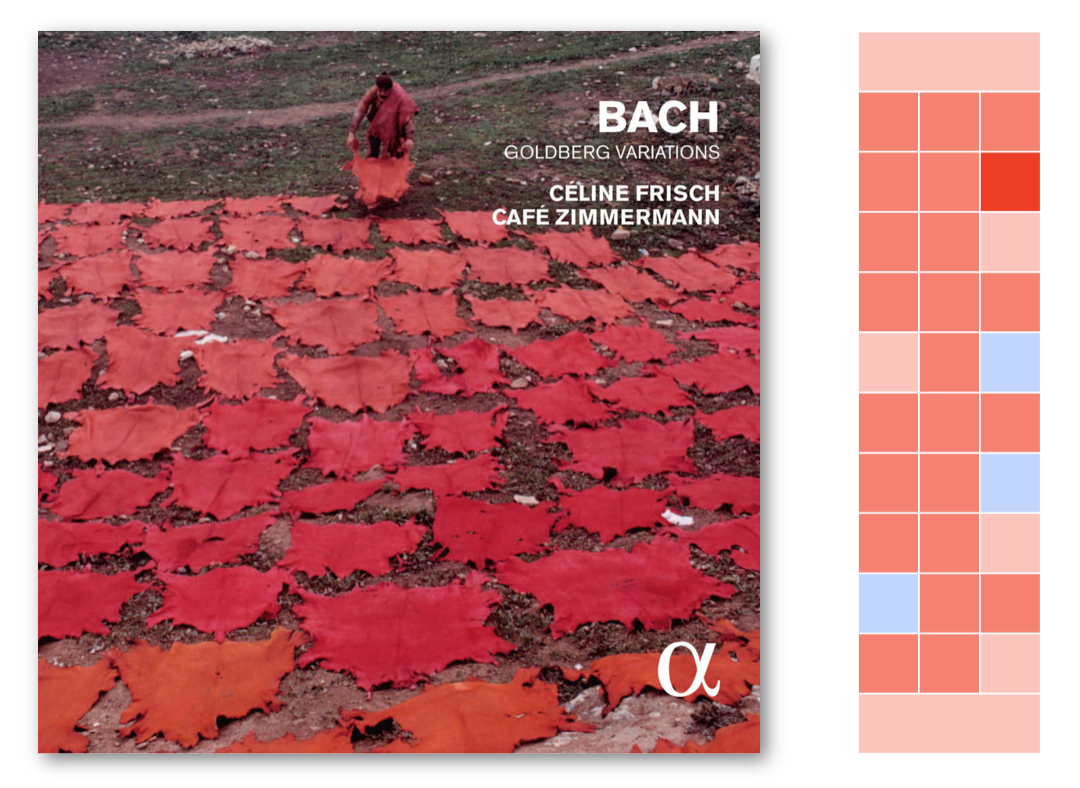
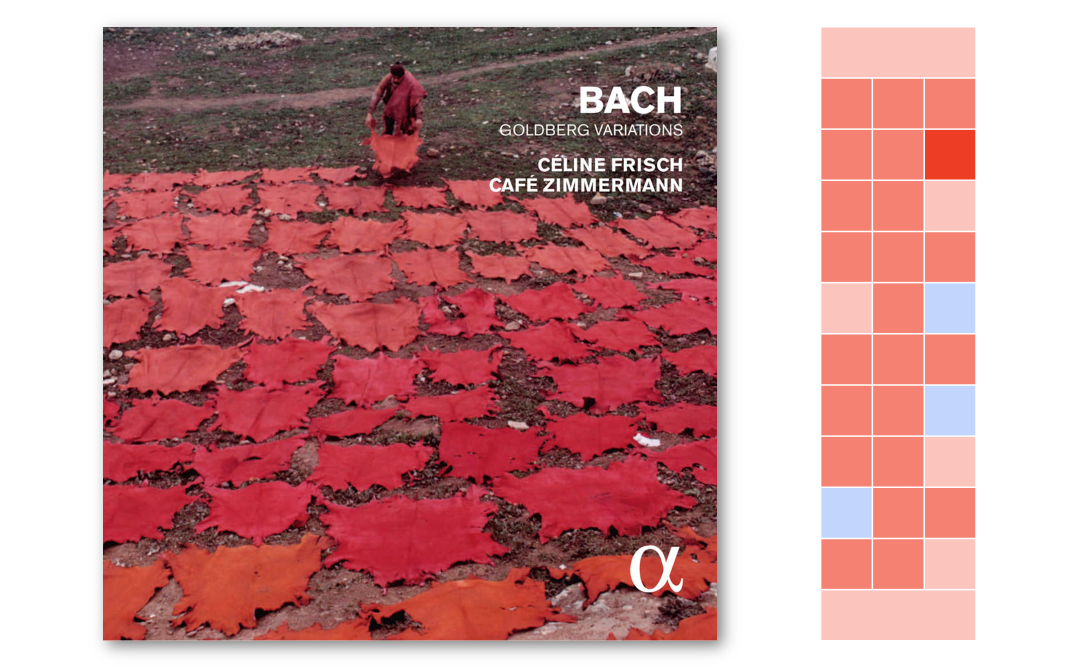
album cover test

diff --git a/_site/2024/03/21/muisc-notes-1-color.html b/_site/2024/03/21/muisc-notes-1-color.html
@@ -474,7 +474,7 @@ Ronald Brautigam </a>
 <p style="text-align:center; margin-bottom:0.75em; font-size:1.1em"><b><span style="margin-left:-0.5em">「</span>变奏」哥德堡 </b> </p>
 
 <p style="text-align:center">
-<img src="/assets/img/music-notes/variation-color/frisch-cover.png" width="450" /> </p>
+<img src="/assets/img/music-notes/variation-color/frisch-cover.png" width="530" /> </p>
 
 <p><br /></p>
 

diff --git a/_posts/2024-03-21-muisc-notes-1-color.md b/_posts/2024-03-21-muisc-notes-1-color.md
@@ -340,7 +340,7 @@ Ronald Brautigam </a>
 <p style="text-align:center; margin-bottom:0.75em; font-size:1.1em"><b><span style="margin-left:-0.5em">「</span>变奏」哥德堡 </b> </p>
 
 <p style="text-align:center">
-<img src="/assets/img/music-notes/variation-color/frisch-cover.png" width="450"> </p>
+<img src="/assets/img/music-notes/variation-color/frisch-cover.png" width="530"> </p>
 
 <br>
 
